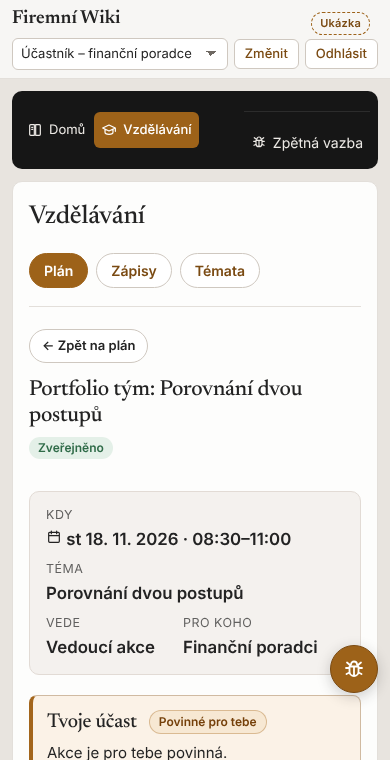
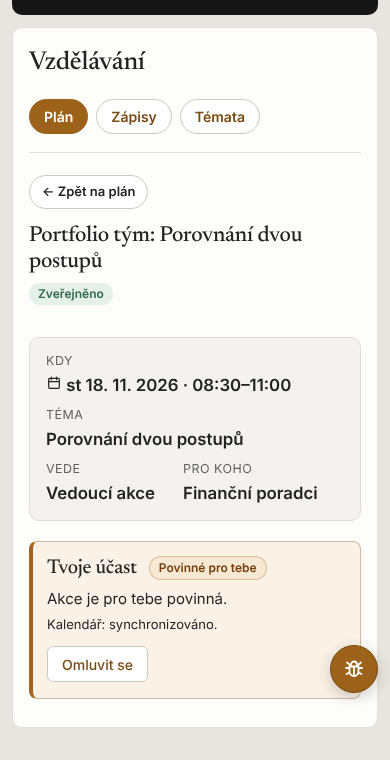
E2E: karta účasti musí jít doscrollovat do zobrazení, obnovené screenshoty po
Claude-Session: https://claude.ai/code/session_01HpUirubr9Sf6yHgVAkEvuh

diff --git a/e2e/ucast-karta.spec.ts b/e2e/ucast-karta.spec.ts
@@ -75,6 +75,10 @@ async function acrossWidths(page: Page, name: string, info: Parameters<typeof sh
     await page.setViewportSize({ width, height: height(width) });
     await expectPanelAfterContent(scope());
     await expectNoHorizontalScroll(page);
+    // Úzké šířky: karta účasti je pod obsahem, okno se musí dát doscrollovat až k ní.
+    const panel = scope().locator("[data-ucast-panel]");
+    await panel.scrollIntoViewIfNeeded();
+    await expect(panel).toBeInViewport();
     await shot(page, `${name}-${width}`, info);
   }
   await page.setViewportSize({ width: 1280, height: 800 });
